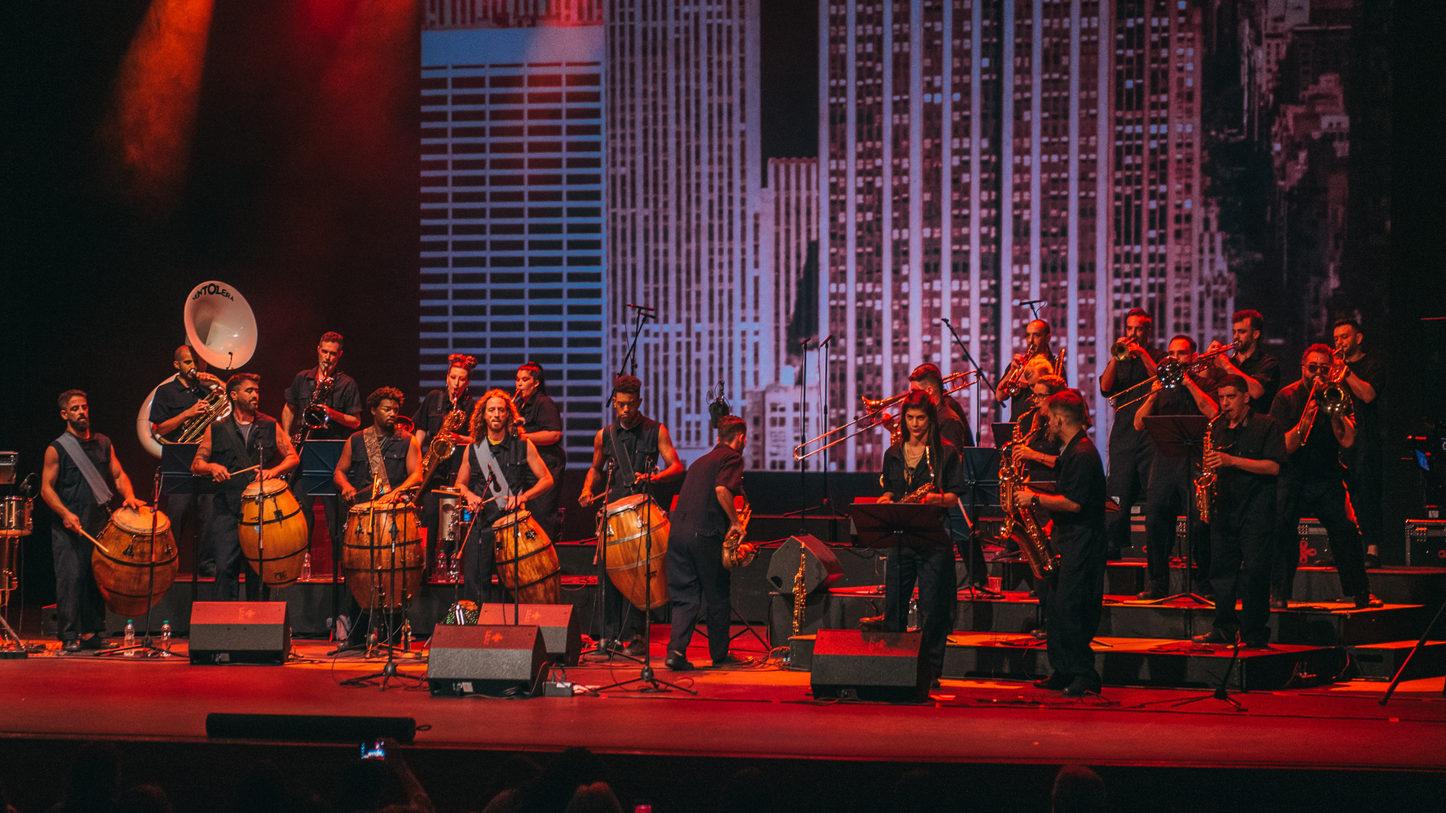
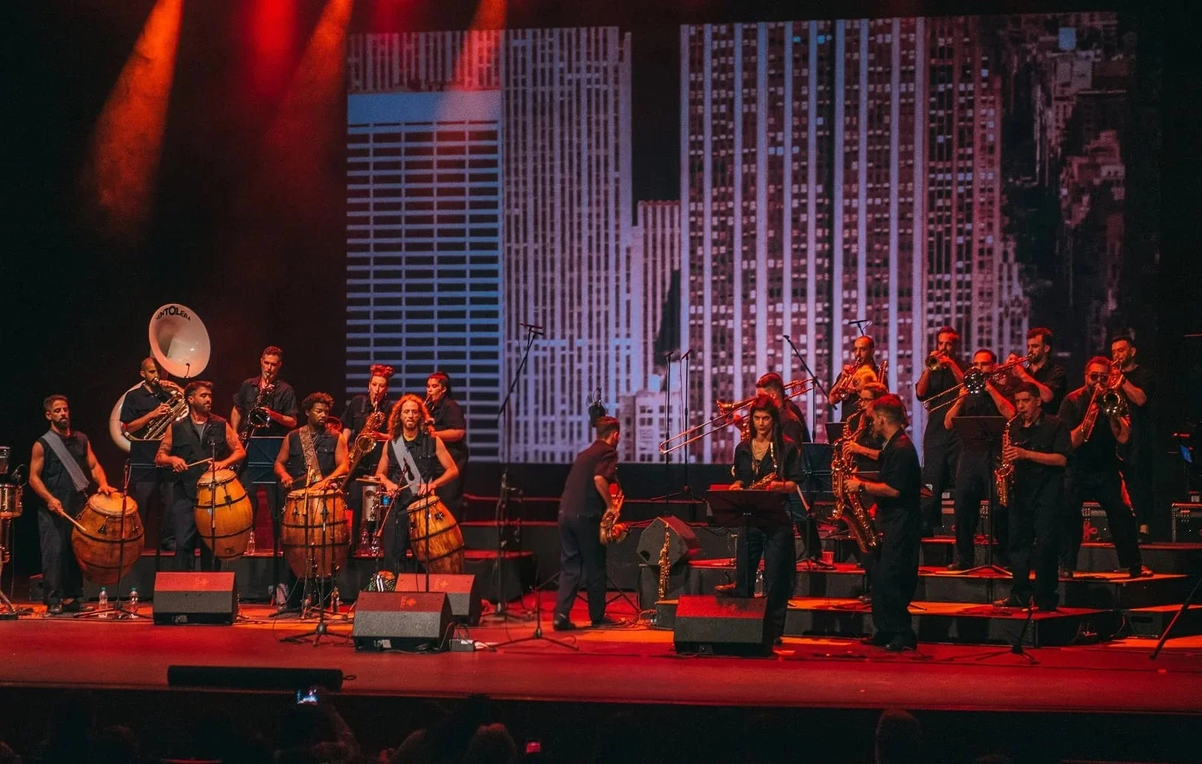
Actualizaciones landing

diff --git a/app/components/landing/Releases.jsx b/app/components/landing/Releases.jsx
@@ -1,12 +1,10 @@
 'use client'
 import { useState } from "react";
-import { motion } from "framer-motion";
 
 export const Releases = () => {
   const [showVideo, setShowVideo] = useState(false);
 
   const handlePlayClick = () => {
-    // Aquí podrías llamar a analytics o eventos personalizados
     console.log("Video clicked");
     setShowVideo(true);
   };
@@ -14,33 +12,19 @@ export const Releases = () => {
   return (
     <section
       id="audiovisuales"
-      className="flex justify-center items-center w-full min-h-[100dvh] bg-white py-16 text-center"
+      className="flex justify-center items-center w-full  bg-white py-16 text-center"
     >
       <div className="max-w-4xl w-11/12 flex flex-col items-center">
-        <motion.h2
-          className="text-3xl font-bold"
-          initial={{ opacity: 0, y: -20 }}
-          whileInView={{ opacity: 1, y: 0 }}
-          transition={{ duration: 0.6 }}
-        >
+        
+        <h2 className="text-2xl sm:text-3xl font-bold">
           AUDIOVISUALES
-        </motion.h2>
+        </h2>
 
-        <motion.p
-          className="mt-6 text-gray-700"
-          initial={{ opacity: 0, y: -10 }}
-          whileInView={{ opacity: 1, y: 0 }}
-          transition={{ delay: 0.3, duration: 0.5 }}
-        >
+        <p className="sm:mt-6 text-gray-700">
           Mantenete al tanto de todos nuestros lanzamientos.
-        </motion.p>
+        </p>
 
-        <motion.div
-          className="w-full max-w-3xl mt-6 rounded-xl overflow-hidden relative aspect-[16/9]"
-          initial={{ opacity: 0 }}
-          whileInView={{ opacity: 1 }}
-          transition={{ delay: 0.6, duration: 0.6 }}
-        >
+        <div className="w-full max-w-3xl mt-6 rounded-xl overflow-hidden relative aspect-[16/9]">
           {showVideo ? (
             <iframe
               className="w-full h-full"
@@ -71,16 +55,13 @@ export const Releases = () => {
               </div>
             </button>
           )}
-        </motion.div>
+        </div>
 
-        <motion.a
+        <a
           href="https://www.youtube.com/@LaVentoleraCandombe"
           className="mt-6 flex items-center text-black hover:text-gray-700 transition"
           target="_blank"
           rel="noopener noreferrer"
-          initial={{ opacity: 0, y: 10 }}
-          whileInView={{ opacity: 1, y: 0 }}
-          transition={{ delay: 0.9, duration: 0.5 }}
         >
           <img
             src="/media/icons/youtube-negro.webp"
@@ -88,7 +69,8 @@ export const Releases = () => {
             className="w-12 mr-4 transition-transform hover:scale-110"
           />
           <h3 className="text-lg font-semibold">SEGUINOS EN YOUTUBE</h3>
-        </motion.a>
+        </a>
+
       </div>
     </section>
   );

diff --git a/app/dashboard/components/PartiturasTab.jsx b/app/dashboard/components/PartiturasTab.jsx
@@ -42,7 +42,7 @@ export default function PartiturasTab({ userData, favorites, setFavorites }) {
       <h2 className="text-2xl font-bold mb-4">Partituras</h2>
 
       {userData.rol === "admin" && (
-        <div className="mb-4 flex gap-2 items-center">
+        <div className="mb-4 flex gap-2 items-center ">
           <label>Elegir instrumento:</label>
           <select
             className="border p-1 rounded"
@@ -106,7 +106,7 @@ export default function PartiturasTab({ userData, favorites, setFavorites }) {
                   {p.tema} ({p.instrumento})
                 </span>
 
-                <div className="flex gap-3 items-center">
+                <div className="flex gap-3 items-center ">
                   {/* ⭐ FAVORITO */}
                   <button
                     onClick={() => toggleFavorite(p.id, p.tema)}
@@ -114,9 +114,9 @@ export default function PartiturasTab({ userData, favorites, setFavorites }) {
                     className={`${!isAvailable && "cursor-not-allowed opacity-50"}`}
                   >
                     {favorites.includes(p.id) ? (
-                      <img src="/media/icons/star-yellow.webp" alt="Star Selected" height={16} width={16} />
+                      <img src="/media/icons/star-yellow.webp" alt="Star Selected" height={16} width={16} className="cursor-pointer"/>
                     ) : (
-                      <img src="/media/icons/star.webp" alt="Star empty" height={16} width={16} />
+                      <img src="/media/icons/star.webp" alt="Star empty" height={16} width={16} className="cursor-pointer" />
                     )}
                   </button>
 
@@ -124,7 +124,7 @@ export default function PartiturasTab({ userData, favorites, setFavorites }) {
                   {isAvailable ? (
                     <a
                       href={`/api/downloadpdf?fileId=${p.driveFileId}&download=1`}
-                      className="flex items-center gap-1 text-blue-600 hover:text-blue-800"
+                      className="flex items-center gap-1 text-blue-600 hover:text-blue-800 cursor-pointer"
                     >
                       <img src="/media/icons/download.webp" alt="Star Selected" height={20} width={20} />
                     </a>

diff --git a/app/components/landing/OthersSections.jsx b/app/components/landing/OthersSections.jsx
@@ -42,7 +42,7 @@ const sliderRef = useRef(null);
       text: 'Nuestra escuela ofrece talleres de candombe, formación musical y espacios de aprendizaje colectivo para todas las edades. Promovemos la transmisión cultural desde la práctica y la experiencia.',
       cta: {
         label: 'Ver más',
-        url: '/escuela',
+        url: 'https://www.instagram.com/laventoleracandombe/',
       },
       img: '/media/gallery/vento.jpg'
     },
@@ -71,11 +71,11 @@ const sliderRef = useRef(null);
         <div className="absolute inset-0 bg-[url('/media/patterns/noise.webp')] opacity-30 mix-blend-overlay pointer-events-none" />
       </div>
 
-      <div className="max-w-6xl w-full space-y-8">
+      <div className="max-w-6xl w-full space-y-8 ">
         {/* Título y descripción general */}
-        <div>
-          <h2 className="text-4xl font-bold">Cooperativa</h2>
-          <p className="mt-4 max-w-2xl text-lg text-white/90">
+        <div className="flex flex-col justify-center items-center">
+          <h2 className=" text-2xl sm:text-3xl font-bold uppercase text-center">Cooperativa</h2>
+          <p className="mt-4 text-md text-white/90 text-center max-w-[700px] ">
             Somos parte de una red de trabajo cooperativo. Realizamos actividades culturales y talleres a través de nuestra escuela y convenios con FUCVAM.
           </p>
         </div>
@@ -88,11 +88,11 @@ const sliderRef = useRef(null);
               {data.map((item, idx) => (
                 <div
                   key={item.id}
-                  className="min-w-full snap-center bg-white/10 backdrop-blur-sm p-6 rounded-xl"
+                  className="min-w-full snap-center bg-white/10 backdrop-blur-sm p-6 rounded-xl text-center"
                 >
+                  <img src={item.img} alt={item.title} className="rounded-xl mb-4 w-full object-cover shadow-lg" />
                   <h3 className="text-2xl font-bold mb-2">{item.title}</h3>
                   <p className="text-white/90 mb-4">{item.text}</p>
-                  <img src={item.img} alt={item.title} className="rounded-xl mb-4 w-full object-cover shadow-lg" />
                   <a
                     href={item.cta.url}
                     target="_blank"

diff --git a/app/components/landing/HeaderAlbum.jsx b/app/components/landing/HeaderAlbum.jsx
@@ -9,8 +9,8 @@ const items = [
  
  
   
-  { href: 'https://open.spotify.com/intl-es/artist/5hgeze6GTe8ckpSfdx3A5l?si=Ek-UhQZATOekLZiRwOnMUw', icon: spotifyIcon, alt: 'Spotify' },
-  { href: 'https://www.youtube.com/@LaVentoleraCandombe', icon: youtubeIcon, alt: 'YouTube' },
+  { href: 'https://open.spotify.com/intl-es/album/6Km0TYPUSTVzIjllyWcMba?si=16KJ439PSmSo8J-Ygxfc_A', icon: spotifyIcon, alt: 'Spotify' },
+  { href: 'https://www.youtube.com/watch?v=JaFuA-M2Ngo&list=OLAK5uy_mnq1QigoEMaxs3tzMn22sCC8copbFitM8', icon: youtubeIcon, alt: 'YouTube' },
  
 ];
 
@@ -123,7 +123,7 @@ useEffect(() => {
             <h1 className="text-4xl md:text-6xl font-black leading-tight uppercase">
              La Cantina
             </h1>
-              <div className=" flex items-center justify-center sm:justify-start  gap-6 py-6 w-full">
+              <div className=" flex items-center justify-center md:justify-start  gap-6 py-6 w-full">
                 <p className="">Escuchalo por: </p>
                      {items.map(({ href, icon, alt }) => (
                        <a key={alt} href={href} target="_blank" rel="noopener noreferrer">
@@ -137,7 +137,9 @@ useEffect(() => {
                        </a>
                      ))}
             </div>
-
+            <div className="flex justify-center items-center md:items-start md:justify-start">
+            <img src="/media/LogoVentolera.png" alt="Logo ventolearr" width={150} />
+            </div>
           </div>
 
         </div>

diff --git a/app/dashboard/page.jsx b/app/dashboard/page.jsx
@@ -17,7 +17,7 @@ export default function DashboardPage() {
 
   const handleLogout = async () => {
     await signOut(auth);
-    router.push("/log-in");
+    router.push("/ventoapp");
   };
 
   if (!userData) return <p className="p-6">Cargando...</p>;
@@ -82,7 +82,7 @@ export default function DashboardPage() {
 
   <div className="flex flex-col gap-2 mb-4">
     <button
-      className={`py-2 px-3 rounded transition-all ${
+      className={`py-2 px-3 rounded transition-all cursor-pointer ${
         selectedTab === "partituras"
           ? "bg-orange-500/80 text-white font-semibold shadow-md"
           : "bg-white text-gray-700"
@@ -97,7 +97,7 @@ export default function DashboardPage() {
 
     {userData.rol === "admin" && (
       <button
-        className={`py-2 px-3 rounded transition-all ${
+        className={`py-2 px-3 rounded transition-all cursor-pointer ${
           selectedTab === "administracion"
             ? "bg-orange-500/80 text-white font-semibold shadow-md"
             : "bg-white text-gray-700"

diff --git a/app/components/landing/Listen.jsx b/app/components/landing/Listen.jsx
@@ -20,8 +20,8 @@ export const Listen = () => {
 
       {/* Contenido */}
       <div className="relative z-10 px-4 w-full text-center max-w-[800px] ">
-        <h2 className="text-2l sm:text-3xl font-bold">ESCUCHANOS</h2>
-        <h3 className="text-lg mt-2">Escuchá nuestros discos en Spotify</h3>
+        <h2 className="text-2xl sm:text-3xl font-bold">ESCUCHANOS</h2>
+        <h3 className="text-md sm:text-lg mt-2">Escuchá nuestros discos en Spotify</h3>
 
         <Albums />
         <Platforms />

diff --git a/app/components/landing/Albums.jsx b/app/components/landing/Albums.jsx
@@ -27,7 +27,7 @@ const albums = [
   {
     src: "/media/albums/SePicaLaCantina.webp",
     alt: "Se Pica la Cantina",
-    link: "https://open.spotify.com/intl-es/album/2YhM6rdQZCUm4j2W0SSYCq?si=caD0g48OQke07tCyYjaiOQ",
+    link: "https://open.spotify.com/intl-es/album/6Km0TYPUSTVzIjllyWcMba?si=16KJ439PSmSo8J-Ygxfc_A",
   },
 ];
 

diff --git a/app/layout.jsx b/app/layout.jsx
@@ -11,7 +11,10 @@ const montserrat = Montserrat({
 
 export const metadata = {
   title: "La Ventolera Candombe",
-  description: "Generated by create next app",
+  description: "Sitio oficial de La Ventolera Candombe",
+  icons: {
+    icon: "/media/favicon.webp",
+  },
 };
 
 export default function RootLayout({ children }) {
